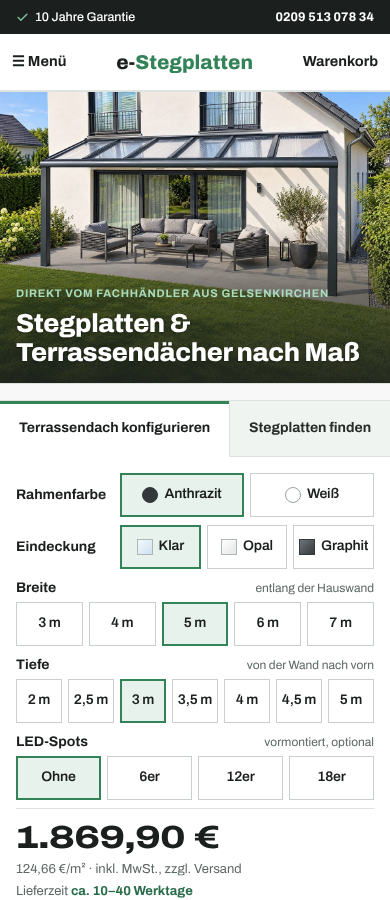
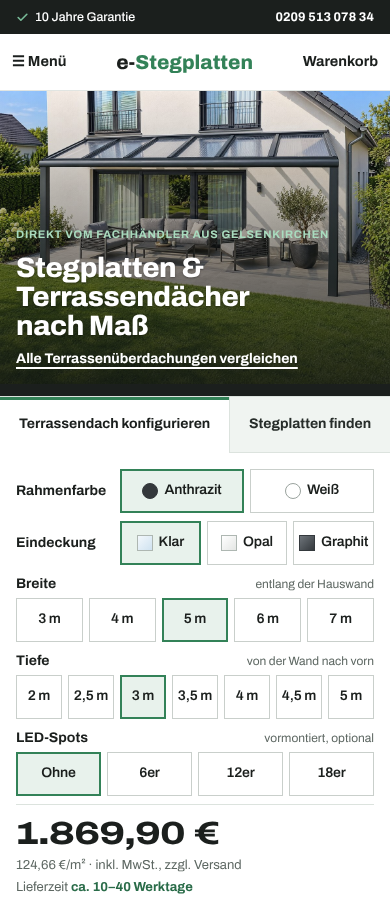
Hero nach Vorlage: vollflächiges Foto, Konfigurator-Karte rechts, Maßlinien
- Foto hinter dem gesamten Hero mit Verlauf, Text links mit Link und Belegen
- Konfigurator als weiße Karte (420 px), kompakte Pills auf Desktop
- Maßlinien Tiefe/Breite folgen der Auswahl im Konfigurator
- Tablet/Handy: Bild oben mit Textoverlay, Karte darunter
- Einstellungen hero_link_text/hero_link_url, Tab-Untertitel gekürzt
- shoot_home.js auf die neue Struktur umgestellt (13/13)

Claude-Session: https://claude.ai/code/session_01S9hv2zjJRNrto6p7dDYLeC

diff --git a/e-stegplatten-theme/tools/shoot_home.js b/e-stegplatten-theme/tools/shoot_home.js
@@ -1,9 +1,9 @@
-// Startseite v3: Hero beginnt mit dem Bild, Überschriften möglichst einzeilig. Screenshots + Messungen.
+// Startseite v3: vollflächiger Hero (Foto, Text links, Konfigurator-Karte rechts, Maßlinien), Überschriften möglichst einzeilig. Screenshots + Messungen.
 const { chromium } = require('playwright');
 const D = '/tmp/claude-0/-home-user-test/beef7815-2c55-57f0-9ec2-48630e491a1b/scratchpad/design-review/v3/';
 let pass = 0, fail = 0;
 const eq = (n, g, w) => { const ok = JSON.stringify(g) === JSON.stringify(w); ok ? pass++ : fail++; console.log(`${ok ? '✓' : '✗'} ${n}${ok ? '' : `\n    erwartet ${JSON.stringify(w)}\n    erhalten ${JSON.stringify(g)}`}`); };
-const SEL = { 'Kachel-Titel': '.esl .cat h3', 'Kachel-Link': '.esl .cat .l', 'Trust-Titel': '.esl .trust b', 'Finder-Option': '.esl .fin__opt b, .esl .fin__opt strong', 'H2': '.esl h2', 'Tab': '.esl .ehx__tab span', 'Beleg': '.esl .proof b', 'Kicker': '.esl .hv__tx .k' };
+const SEL = { 'Kachel-Titel': '.esl .cat h3', 'Kachel-Link': '.esl .cat .l', 'Trust-Titel': '.esl .trust b', 'Finder-Option': '.esl .fin__opt b, .esl .fin__opt strong', 'H2': '.esl h2', 'Tab': '.esl .ehx__tab span', 'Beleg': '.esl .proof b', 'Kicker': '.esl .ht .k', 'Hero-Link': '.esl .ht__link' };
 const wraps = (pg) => pg.evaluate((SEL) => {
   const out = {};
   for (const [name, sel] of Object.entries(SEL)) {
@@ -27,17 +27,20 @@ const wraps = (pg) => pg.evaluate((SEL) => {
   await pg.goto('file://' + D + 'home.html'); await pg.evaluate(() => document.fonts.ready); await pg.waitForTimeout(200);
   const geo = await pg.evaluate(() => {
     const r = s => { const e = document.querySelector(s); const b = e.getBoundingClientRect(); return { x: Math.round(b.x), y: Math.round(b.y), w: Math.round(b.width), h: Math.round(b.height) } };
-    const img = document.querySelector('.hv__img');
-    return { hv: r('.hv'), hc: r('.hc'), proof: r('.proof'), h1: r('.hv h1'), imgLoaded: !!(img && img.naturalWidth), h1Color: getComputedStyle(document.querySelector('.hv h1')).color, firstInHero: document.querySelector('.hero .c').firstElementChild.className };
+    const img = document.querySelector('.hb__img');
+    return { hero: r('.esl .hero'), hb: r('.hb'), ht: r('.ht'), hc: r('.hc'), proof: r('.proof'), imgLoaded: !!(img && img.naturalWidth), h1Color: getComputedStyle(document.querySelector('.ht h1')).color, cardBg: getComputedStyle(document.querySelector('.hcard')).backgroundColor, dimW: document.querySelector('[data-ehb-w]').textContent, dimD: document.querySelector('[data-ehb-d]').textContent, dims: getComputedStyle(document.querySelector('.hdim')).display };
   });
-  eq('Desktop: erstes Element im Hero ist der Bildblock', geo.firstInHero, 'hv');
+  eq('Desktop: Foto füllt den gesamten Hero', geo.hb.w === geo.hero.w && Math.abs(geo.hb.h - geo.hero.h) <= 2, true);
   eq('Desktop: Bild geladen', geo.imgLoaded, true);
-  eq('Desktop: Konfigurator rechts neben dem Bild', geo.hc.x > geo.hv.x + geo.hv.w - 1, true);
-  eq('Desktop: Bild oben links, Belege darunter', geo.proof.y >= geo.hv.y + geo.hv.h - 1, true);
-  eq('Desktop: Bildhöhe ≥ 420 px', geo.hv.h >= 420, true);
-  eq('Desktop: Überschrift liegt im Bild', geo.h1.y > geo.hv.y && geo.h1.y + geo.h1.h <= geo.hv.y + geo.hv.h, true);
-  eq('Desktop: Überschrift weiß', geo.h1Color, 'rgb(255, 255, 255)');
+  eq('Desktop: Text links, Karte rechts', geo.ht.x + geo.ht.w <= geo.hc.x, true);
+  eq('Desktop: Belege unter dem Text, links der Karte', geo.proof.y >= geo.ht.y + geo.ht.h - 1 && geo.proof.x + geo.proof.w <= geo.hc.x, true);
+  eq('Desktop: Hero ≥ 600 px hoch', geo.hero.h >= 600, true);
+  eq('Desktop: Überschrift weiß, Karte weiß', [geo.h1Color, geo.cardBg], ['rgb(255, 255, 255)', 'rgb(255, 255, 255)']);
+  eq('Desktop: Maßlinien sichtbar, zeigen die Vorauswahl', [geo.dims !== 'none', geo.dimW, geo.dimD], [true, 'Breite 5,00 m', 'Tiefe 3,00 m']);
   await pg.screenshot({ path: D + 'home-1280-fold.png' });
+  await pg.click('[data-w="4,00 Meter"]'); await pg.waitForTimeout(120);
+  eq('Desktop: Maßlinie folgt der Auswahl (4 m)', await pg.textContent('[data-ehb-w]'), 'Breite 4,00 m');
+  await pg.click('[data-w="5,00 Meter"]');
   await pg.click('#ehx-t2-x'); await pg.waitForTimeout(150);
   eq('Desktop: Tabwechsel funktioniert', await pg.isVisible('.fin'), true);
   await pg.screenshot({ path: D + 'home-1280-finder.png' });
@@ -51,12 +54,13 @@ const wraps = (pg) => pg.evaluate((SEL) => {
     const merged = { ...konfig }; for (const k of Object.keys(finder)) merged[k] = finder[k];
     const hs = await pg.evaluate(() => document.documentElement.scrollWidth <= innerWidth);
     console.log(`— ${w}px — ${hs ? '' : 'HORIZONTALES SCROLLEN! '}${Object.keys(merged).length ? JSON.stringify(merged) : 'alle Überschriften einzeilig'}`);
+    if (w === 820) { await pg.evaluate(() => window.scrollTo(0, 0)); await pg.screenshot({ path: D + 'home-820-fold.png' }); }
     if (w === 507) { await pg.evaluate(() => { const e = document.querySelector('.cats'); window.scrollTo(0, e.getBoundingClientRect().top + scrollY - 90) }); await pg.waitForTimeout(100); await pg.screenshot({ path: D + 'home-507-cats.png' }); }
     if (w === 390) {
-      const m = await pg.evaluate(() => { const hv = document.querySelector('.hv').getBoundingClientRect(), hc = document.querySelector('.hc').getBoundingClientRect(), pr = document.querySelector('.proof').getBoundingClientRect(); return { hvY: Math.round(hv.y), hvH: Math.round(hv.height), hvW: Math.round(hv.width), order: hv.y < hc.y && hc.y < pr.y, lead: !!document.querySelector('.hv .lead').offsetParent, kicker: !!document.querySelector('.hv .k').offsetParent } });
-      eq('Mobil: Reihenfolge Bild → Konfigurator → Belege', m.order, true);
-      eq('Mobil: Bild randlos (390 px breit)', m.hvW, 390);
-      eq('Mobil: Lead-Text ausgeblendet, Kicker sichtbar', [m.lead, m.kicker], [false, true]);
+      const m = await pg.evaluate(() => { const R = s => document.querySelector(s).getBoundingClientRect(); const hb = R('.hb'), ht = R('.ht'), hc = R('.hc'), pr = R('.proof'); return { hbW: Math.round(hb.width), overlay: ht.bottom <= hb.bottom + 1 && ht.top >= hb.top - 1, cardBelow: hc.top >= hb.bottom - 1, proofAfterCard: pr.top >= hc.bottom - 1, dims: getComputedStyle(document.querySelector('.hdim')).display, lead: !!document.querySelector('.ht .lead').offsetParent, kicker: !!document.querySelector('.ht .k').offsetParent, cardW: Math.round(R('.hcard').width) } });
+      eq('Mobil: Text auf dem Bild, Karte darunter, Belege danach', [m.overlay, m.cardBelow, m.proofAfterCard], [true, true, true]);
+      eq('Mobil: Bild und Karte randlos (390 px)', [m.hbW, m.cardW], [390, 390]);
+      eq('Mobil: Maßlinien aus, Lead aus, Kicker an', [m.dims, m.lead, m.kicker], ['none', false, true]);
       await pg.evaluate(() => window.scrollTo(0, 0)); await pg.waitForTimeout(100);
       await pg.screenshot({ path: D + 'home-390-fold.png' });
       await pg.screenshot({ path: D + 'home-390-full.png', fullPage: true });

diff --git a/e-stegplatten-theme/tools/v3_patch.py b/e-stegplatten-theme/tools/v3_patch.py
@@ -284,16 +284,16 @@ patch('sections/es-landing.liquid', [
 {%- if s.hero_text != blank -%}<p class="lead">{{ s.hero_text }}</p>{%- endif -%}
 {%- assign kh""",
      """<section class="hero" data-screen-label="Hero">
+<div class="hb" aria-hidden="true">{%- if s.hero_image != blank -%}<picture>{%- if s.hero_image_m -%}<source media="(max-width:749px)" srcset="{{ s.hero_image_m | image_url: width: 480 }} 480w, {{ s.hero_image_m | image_url: width: 720 }} 720w, {{ s.hero_image_m | image_url: width: 960 }} 960w, {{ s.hero_image_m | image_url: width: 1200 }} 1200w" sizes="100vw">{%- endif -%}<img class="hb__img" src="{{ s.hero_image | image_url: width: 1600 }}" srcset="{{ s.hero_image | image_url: width: 1000 }} 1000w, {{ s.hero_image | image_url: width: 1600 }} 1600w, {{ s.hero_image | image_url: width: 2200 }} 2200w" sizes="100vw" alt="" width="{{ s.hero_image.width | default: 1600 }}" height="{{ s.hero_image.height | default: 1063 }}" fetchpriority="high"></picture>{%- endif -%}<div class="hb__shade"></div></div>
 <div class="c">
-<div class="hv">
-{%- if s.hero_image != blank -%}<picture>{%- if s.hero_image_m -%}<source media="(max-width:749px)" srcset="{{ s.hero_image_m | image_url: width: 480 }} 480w, {{ s.hero_image_m | image_url: width: 720 }} 720w, {{ s.hero_image_m | image_url: width: 960 }} 960w, {{ s.hero_image_m | image_url: width: 1200 }} 1200w" sizes="100vw">{%- endif -%}<img class="hv__img" src="{{ s.hero_image | image_url: width: 1400 }}" srcset="{{ s.hero_image | image_url: width: 700 }} 700w, {{ s.hero_image | image_url: width: 1000 }} 1000w, {{ s.hero_image | image_url: width: 1400 }} 1400w" sizes="(max-width:999px) 100vw, 660px" alt="{{ s.hero_image.alt | default: s.hero_title | escape }}" width="{{ s.hero_image.width | default: 1400 }}" height="{{ s.hero_image.height | default: 1050 }}" fetchpriority="high"></picture>{%- endif -%}
-<div class="hv__tx">
+<div class="hdim" aria-hidden="true"><span class="hdim__d"><b data-ehb-d>Tiefe</b></span><span class="hdim__w"><b data-ehb-w>Breite</b></span></div>
+<div class="ht">
 {%- if s.kicker != blank -%}<p class="k">{{ s.kicker }}</p>{%- endif -%}
 <h1>{{ s.hero_title }}</h1>
 {%- if s.hero_text != blank -%}<p class="lead">{{ s.hero_text }}</p>{%- endif -%}
+{%- if s.hero_link_text != blank and s.hero_link_url != blank -%}<a class="ht__link" href="{{ s.hero_link_url }}">{{ s.hero_link_text }}</a>{%- endif -%}
 </div>
-</div>
-<div class="hc">
+<div class="hc"><div class="hcard">
 {%- assign kh"""),
     ("""{% render 'es-hero-konfig', kc: kc, lz: s.lz_terrassen, mu: s.muster_url %}
 {%- endif -%}
@@ -303,7 +303,7 @@ patch('sections/es-landing.liquid', [
 <div class="proof">""",
      """{% render 'es-hero-konfig', kc: kc, lz: s.lz_terrassen, mu: s.muster_url %}
 {%- endif -%}
-</div>
+</div></div>
 <div class="proof">"""),
     ("""
 </div>
@@ -315,7 +315,7 @@ patch('sections/es-landing.liquid', [
 </section>
 <section class="trust" data-screen-label="Vertrauen">"""),
     ('{"type":"image_picker","id":"hero_image","label":"Bild"},',
-     '{"type":"image_picker","id":"hero_image","label":"Bild"},{"type":"image_picker","id":"hero_image_m","label":"Bild für Handys (optional, 4:3 – Dach oben, ruhige Fläche unten)","info":"Ohne Auswahl wird das Bild oben auch auf Handys verwendet."},'),
+     '{"type":"image_picker","id":"hero_image","label":"Bild (vollflächig hinter Text und Konfigurator)"},{"type":"image_picker","id":"hero_image_m","label":"Bild für Handys (optional, 4:3 – Dach oben, ruhige Fläche unten)","info":"Ohne Auswahl wird das Bild oben auch auf Handys verwendet."},{"type":"text","id":"hero_link_text","label":"Link unter dem Text","default":"Alle Terrassenüberdachungen vergleichen"},{"type":"url","id":"hero_link_url","label":"Link-Ziel"},'),
     ("""<h3>{{ b.settings.title | escape | replace: 'Terrassenüberdachung', 'Terrassen&shy;überdachung' | replace: 'Stegplatten', 'Steg&shy;platten' }}</h3>""",
      """<h3>{{ b.settings.title | escape }}</h3>"""),
 ])
@@ -326,16 +326,42 @@ patch('snippets/es-landing-css.liquid', [
 .esl .hero .c{display:grid;grid-template-columns:minmax(0,1.05fr) minmax(0,.95fr);gap:48px;align-items:start;padding-top:32px;padding-bottom:48px}
 .esl .hero img{width:100%;aspect-ratio:4/3;object-fit:cover;display:block;border:1px solid var(--ln)}
 .esl .proof{display:grid;grid-template-columns:repeat(3,1fr);border:1px solid var(--ln);border-top:none;background:#fff}""",
-     """/* Hero: Bild zuerst (Überschrift auf dem Bild), daneben der Konfigurator; mobil Bild → Konfigurator → Belege */
-.esl .hero{border-bottom:1px solid var(--ln)}
-.esl .hero .c{display:grid;grid-template-columns:minmax(0,1.05fr) minmax(0,.95fr);grid-template-rows:minmax(0,1fr) auto;grid-template-areas:"hv hc" "proof hc";gap:0 48px;align-items:start;padding-top:24px;padding-bottom:48px}
-.esl .hv{grid-area:hv;position:relative;align-self:stretch;min-height:440px;display:flex;flex-direction:column;justify-content:flex-end;background:var(--ink);border:1px solid var(--ln);overflow:hidden}
-.esl .hv__img{position:absolute;inset:0;width:100%;height:100%;object-fit:cover;display:block}
-.esl .hv__tx{position:relative;padding:140px 28px 28px;background:linear-gradient(180deg,rgba(27,31,29,0) 0%,rgba(27,31,29,.55) 40%,rgba(27,31,29,.9) 100%)}
-.esl .hv__tx .k{color:#A9DBBE;margin-bottom:8px}
-.esl .hv__tx h1{color:#fff;text-shadow:0 1px 2px rgba(0,0,0,.35)}
-.esl .hv__tx .lead{color:rgba(255,255,255,.92);margin-top:10px;text-shadow:0 1px 2px rgba(0,0,0,.35)}
-.esl .hc{grid-area:hc;min-width:0}
+     """/* Hero: vollflächiges Foto, Text links, Konfigurator als weiße Karte rechts, Maßlinien für Breite/Tiefe */
+.esl .hero{position:relative;background:var(--ink);color:#fff;border-bottom:1px solid var(--ln);overflow:hidden}
+.esl .hb{position:absolute;inset:0}
+.esl .hb__img{width:100%;height:100%;object-fit:cover;object-position:50% 42%;display:block}
+.esl .hb__shade{position:absolute;inset:0;background:linear-gradient(90deg,rgba(18,22,20,.84) 0%,rgba(18,22,20,.62) 40%,rgba(18,22,20,.32) 68%,rgba(18,22,20,.18) 100%)}
+.esl .hero .c{position:relative;display:grid;grid-template-columns:minmax(0,1fr) 420px;grid-template-rows:auto auto;grid-template-areas:"ht hc" "proof hc";gap:26px 56px;align-items:center;min-height:600px;padding-top:40px;padding-bottom:64px}
+.esl .ht{grid-area:ht;align-self:end;padding-left:64px;max-width:640px}
+.esl .ht .k{color:#A9DBBE;margin-bottom:10px}
+.esl .ht h1{color:#fff;font-size:clamp(34px,4.2vw,56px);line-height:1.04;text-shadow:0 1px 2px rgba(0,0,0,.3)}
+.esl .ht .lead{color:rgba(255,255,255,.9);font-size:17px;max-width:48ch;text-shadow:0 1px 2px rgba(0,0,0,.3)}
+.esl .ht__link{display:inline-block;margin-top:18px;color:#fff;font-weight:700;font-size:15px;text-decoration:underline;text-underline-offset:4px;text-decoration-thickness:2px}
+.esl .ht__link:hover{color:#A9DBBE}
+.esl .hc{grid-area:hc;min-width:0;align-self:center}
+.esl .hcard{background:#fff;color:var(--ink);box-shadow:0 24px 60px rgba(0,0,0,.35)}
+.esl .hcard .ehx{margin:0}
+/* Karte kompakt (nur Desktop): kleinere Pills und Abstände, damit Hero und Karte in den sichtbaren Bereich passen */
+@media(min-width:1001px){
+.esl .hcard .ehx__tab{min-height:52px;padding:6px 14px}
+.esl .hcard .ehx__tab small{white-space:nowrap}
+.esl .hcard .ehk{padding:16px 20px 20px}
+.esl .hcard .ehk__o{margin-bottom:10px}
+.esl .hcard .ehk__l{font-size:14px;margin-bottom:6px}
+.esl .hcard .ehk__pill{min-height:40px;font-size:14px;padding:0 6px}
+.esl .hcard .ehk__ft{padding-top:14px;margin-top:2px}
+.esl .hcard .ehk__price{font-size:32px}
+.esl .hcard .ehk__go{height:50px;font-size:16px;padding:0 20px}
+}
+.esl .hdim{position:absolute;inset:0;pointer-events:none}
+.esl .hdim__d{position:absolute;left:18px;top:15%;bottom:26%;width:0;border-left:1px solid rgba(255,255,255,.75)}
+.esl .hdim__w{position:absolute;left:64px;right:520px;bottom:30px;height:0;border-top:1px solid rgba(255,255,255,.75)}
+.esl .hdim__d::before,.esl .hdim__d::after{content:"";position:absolute;left:-6px;width:12px;height:0;border-top:1px solid rgba(255,255,255,.75)}
+.esl .hdim__d::before{top:0}.esl .hdim__d::after{bottom:0}
+.esl .hdim__w::before,.esl .hdim__w::after{content:"";position:absolute;top:-6px;height:12px;width:0;border-left:1px solid rgba(255,255,255,.75)}
+.esl .hdim__w::before{left:0}.esl .hdim__w::after{right:0}
+.esl .hdim b{position:absolute;top:50%;left:50%;transform:translate(-50%,-50%);background:var(--g);color:#fff;font-size:13px;font-weight:700;line-height:1.2;padding:5px 10px;white-space:nowrap}
+.esl .hdim__d b{transform:translate(-50%,-50%) rotate(-90deg)}
 .esl .proof{grid-area:proof;display:grid;grid-template-columns:repeat(3,1fr);border:1px solid var(--ln);border-top:none;background:#fff}"""),
     (".esl .ehx{margin-top:24px}", ".esl .ehx{margin-top:0}"),
     (".esl .cat{display:flex;flex-direction:column;min-width:0;border:1px solid var(--ln);",
@@ -346,21 +372,29 @@ patch('snippets/es-landing-css.liquid', [
      ".esl .cat .l{margin-top:auto;padding-top:8px;font-weight:700;color:var(--g6);display:inline-flex;gap:6px;align-items:center;font-size:clamp(13px,5.6cqi,15px);white-space:nowrap}"),
     (""".esl .hero .c{grid-template-columns:1fr;gap:24px}
 .esl .cats,.esl .steps,.esl .prods{grid-template-columns:repeat(2,minmax(0,1fr))}""",
-     """.esl .hero .c{grid-template-columns:1fr;grid-template-rows:auto;grid-template-areas:"hv" "hc" "proof";gap:20px 0}
-.esl .hv{min-height:0;aspect-ratio:3/2;align-self:auto}
-.esl .hv__tx{padding:80px 20px 20px}
+     """.esl .hero{display:grid;grid-template-columns:100%;grid-template-rows:auto auto auto}
+.esl .hb{grid-area:1/1;position:relative;inset:auto;aspect-ratio:16/9}
+.esl .hb__shade{background:linear-gradient(180deg,rgba(18,22,20,0) 0%,rgba(18,22,20,.3) 40%,rgba(18,22,20,.86) 100%)}
+.esl .hero .c{display:contents}
+.esl .ht{grid-area:1/1;align-self:end;z-index:1;padding:0 24px 24px;max-width:none}
+.esl .ht h1{font-size:clamp(28px,5vw,40px)}
+.esl .hc{grid-area:2/1;padding:24px 24px 0}
+.esl .hcard{box-shadow:none}
+.esl .proof{grid-area:3/1;padding:16px 24px 24px}
+.esl .hdim{display:none}
 .esl .cats,.esl .steps,.esl .prods{grid-template-columns:repeat(2,minmax(0,1fr))}"""),
     (""".esl .hero .c{padding-top:12px;padding-bottom:24px;gap:20px}
 .esl .hero .k,.esl .lead{display:none}
 .esl .hero .c>div:last-child{margin:0 -16px}
 .esl .hero img{aspect-ratio:16/10;border-left:0;border-right:0}
 .esl .proof{border-left:0;border-right:0}""",
-     """.esl .hero .c{padding-top:0;padding-bottom:24px;gap:16px 0}
-.esl .hv{margin:0 -16px;border-left:0;border-right:0;aspect-ratio:4/3}
-.esl .hv__tx{padding:56px 16px 16px}
-.esl .hv__tx .lead{display:none}
+     """.esl .hb{aspect-ratio:4/3}
+.esl .ht{padding:0 16px 14px}
+.esl .ht .lead{display:none}
+.esl .ht__link{margin-top:8px;font-size:14px}
+.esl .hc{padding:12px 0 0}
 .esl .proof{border-left:0;border-right:0;margin:0 -16px}"""),
-    (".esl .ehx{margin:12px -16px 0}", ".esl .ehx{margin:0 -16px}"),
+    (".esl .ehx{margin:12px -16px 0}", ".esl .ehx{margin:0}"),
     (""".esl .cat h3{font-size:15px;min-height:2.5em}
 .esl .cat .l{font-size:14px;gap:4px;white-space:normal;line-height:1.3}""",
      """.esl .cat .l{gap:4px}"""),
@@ -380,17 +414,16 @@ patch('snippets/es-landing-css.liquid', [
 .esl .proof div{padding:14px 16px;border-right:1px solid var(--ln);font-size:14px;line-height:1.4;color:var(--mu)}
 .esl .proof div:last-child{border-right:none}
 .esl .proof b{display:block;color:var(--ink);font-size:15px;margin-bottom:2px}""",
-     """.esl .proof{grid-area:proof;display:grid;grid-template-columns:1fr;border:1px solid var(--ln);border-top:none;background:#fff}
-.esl .proof div{display:flex;flex-wrap:wrap;align-items:baseline;gap:0 8px;padding:9px 16px;border-bottom:1px solid var(--ln);font-size:14px;line-height:1.4;color:var(--mu)}
-.esl .proof div:last-child{border-bottom:none}
-.esl .proof svg{color:var(--g);flex:none;width:16px;height:16px;align-self:center;margin-right:2px}
-.esl .proof b{display:inline;white-space:nowrap;color:var(--ink);font-size:15px}"""),
+     """.esl .proof{grid-area:proof;align-self:start;display:flex;flex-wrap:wrap;gap:8px 24px;padding-left:64px;border:0;background:none}
+.esl .proof div{display:flex;flex-wrap:wrap;align-items:baseline;gap:0 6px;padding:0;border:0;font-size:14px;line-height:1.4;color:rgba(255,255,255,.82)}
+.esl .proof svg{color:#A9DBBE;flex:none;width:16px;height:16px;align-self:center}
+.esl .proof b{display:inline;white-space:nowrap;color:#fff;font-size:14px;font-weight:700}"""),
     (""".esl .proof{border-left:0;border-right:0;margin:0 -16px}
 .esl .proof div{padding:10px 8px;font-size:12px;line-height:1.35}
 .esl .proof b{font-size:13px;line-height:1.25}""",
-     """.esl .proof{border-left:0;border-right:0;margin:0 -16px}
-.esl .proof div{padding:8px 16px;font-size:13px;line-height:1.35}
-.esl .proof b{font-size:14px}"""),
+     """.esl .proof{margin:0;padding:12px 16px 18px;gap:6px 14px}
+.esl .proof div span{display:none}
+.esl .proof b{font-size:13px}"""),
     # Tabs: Breite nach Beschriftung verteilen, damit „Terrassendach konfigurieren" auch bei 1000–1100 px und auf Handys einzeilig bleibt
     (""".esl .ehx__tabs{display:grid;grid-template-columns:1fr 1fr;border:1px solid var(--ln);border-bottom:0;background:var(--bg2)}
 .esl .ehx__tab{display:flex;flex-direction:column;""",
@@ -403,7 +436,7 @@ patch('snippets/es-landing-css.liquid', [
     # Trust-Leiste auf Handys einspaltig (Titel nowrap, Zusatz daneben oder darunter); H2 und Kacheln bei sehr schmalen Geräten
     ("@media(max-width:380px){.esl h1{font-size:24px}}",
      """@media(max-width:480px){
-.esl .hv__tx .k{font-size:11px;letter-spacing:.07em}
+.esl .ht .k{font-size:11px;letter-spacing:.07em}
 .esl .trust .c{grid-template-columns:1fr}
 .esl .trust .c>div{padding:10px 16px}
 .esl .trust span{display:flex;flex-wrap:wrap;align-items:baseline;gap:0 8px}
@@ -476,6 +509,13 @@ html body .text-with-icons__dots:not(#_),html body .text-with-icons .flickity-pa
 </style>"""),
 ])
 
+
+# ---------------------------------------------------------------- Hero-Konfigurator: Maßlinien (Breite/Tiefe) im Hero mitführen
+patch('snippets/es-hero-konfig.liquid', [
+    ("kl.textContent='\u00a0'+lb(st.w)+' × '+lb(st.d);",
+     "kl.textContent='\u00a0'+lb(st.w)+' × '+lb(st.d);document.querySelectorAll('[data-ehb-w]').forEach(function(e){e.textContent='Breite '+String(st.w).replace(' Meter',' m')});document.querySelectorAll('[data-ehb-d]').forEach(function(e){e.textContent='Tiefe '+String(st.d).replace(' Meter',' m')});"),
+])
+
 # ---------------------------------------------------------------- index.json: Trust-Text, Farbmuster
 p = B / 'new/templates/index.json'
 raw = p.read_text(encoding='utf-8')
@@ -487,6 +527,9 @@ L['settings']['muster_url'] = '/products/farbmuster'
 # Hero-Bilder (Higgsfield-Generate, Quelle content/hero/*.jpg) – Dateien müssen vor dem Theme-Upload in Shopify > Inhalte > Dateien liegen
 L['settings']['hero_image'] = 'shopify://shop_images/hero-terrassendach-stegplatten.jpg'
 L['settings']['hero_image_m'] = 'shopify://shop_images/hero-terrassendach-stegplatten-mobil.jpg'
+L['settings']['hero_link_text'] = 'Alle Terrassenüberdachungen vergleichen'
+L['settings']['tab2_sub'] = 'Stärke in 2 Fragen'
+L['settings']['hero_link_url'] = '/collections/terrassenuberdachung'
 L['blocks']['c1']['settings'].update({'title': 'Stegplatten', 'text': 'Doppelstegplatten 4,5–16 mm, Polycarbonat oder Acrylglas – millimetergenau zugeschnitten.'})
 L['blocks']['c2']['settings']['title'] = 'Terrassendächer'
 L['blocks']['c4']['settings']['cta'] = 'Nach Stärke'

diff --git a/e-stegplatten-theme/HANDOFF.md b/e-stegplatten-theme/HANDOFF.md
@@ -22,7 +22,7 @@ Stand: 23.10.2026. Dieser Ordner sichert die Arbeitsdateien. Maßgeblich ist der
 
 ## Lokal fertig, noch NICHT hochgeladen: `theme/v3` (9 Dateien)
 
-Shopify-Verbindung war weg (Shop-Wechsel beim Lesen der TerrassenPost-Preise hat den Zugang zurückgesetzt; Connector muss neu verbunden werden). Tests grün: `tools/pdp_test.js` 61/61, `tools/guard_test.js` 12/12, `tools/led_test.js` 26/26, `tools/shoot_home.js` 12/12 (Startseite: Hero beginnt mit dem Bild; alle Überschriften von 320 bis 1280 px einzeilig), `tools/shoot_cards.js` 35/35 (Produktkarten + Icon-Leiste im Mock `tools/render_cards.py`). Screenshots: `screenshots/pdp-390-*.png`, `pdp-1280-montage-offer.png`, `hero-390.png`, `screenshots/v3/home-*.png`.
+Shopify-Verbindung war weg (Shop-Wechsel beim Lesen der TerrassenPost-Preise hat den Zugang zurückgesetzt; Connector muss neu verbunden werden). Tests grün: `tools/pdp_test.js` 61/61, `tools/guard_test.js` 12/12, `tools/led_test.js` 26/26, `tools/shoot_home.js` 13/13 (Startseite: vollflächiger Hero mit Karte und Maßlinien, Handy-Umbau; alle Überschriften von 320 bis 1280 px einzeilig), `tools/shoot_cards.js` 35/35 (Produktkarten + Icon-Leiste im Mock `tools/render_cards.py`). Screenshots: `screenshots/pdp-390-*.png`, `pdp-1280-montage-offer.png`, `hero-390.png`, `screenshots/v3/home-*.png`.
 
 | Datei | Änderung |
 |---|---|
@@ -30,9 +30,9 @@ Shopify-Verbindung war weg (Shop-Wechsel beim Lesen der TerrassenPost-Preise hat
 | `snippets/es-pdp-js.liquid` | Montage-Logik nach dem Modell aus der Preisliste: Zone über die ersten zwei PLZ-Ziffern (erster Treffer gilt, AT = 4-stellige PLZ), Preis = Variante Breite × Tiefe × Zone des Montage-Produkts; Warenkorbzeile mit „Für Überdachung“ + „Montageort“, Sperre ohne gültige PLZ, Panels, `?mp=PLZ`, `?angebot=1`, `contact_posted` öffnet das Formular. |
 | `snippets/es-pdp-css.liquid` | Styles für Montage, Panels, Formular, Druckansicht. |
 | `snippets/es-led-guard.liquid` | Wächter jetzt für LED **und** Montage (Handles in `ADD` + Liquid-Liste pflegen). |
-| `snippets/es-hero-konfig.liquid` | Zeile „Farbmuster bestellen · Angebot anfordern“ (Link übergibt Variante/LED + `angebot=1`). Neuer Parameter `mu`. |
-| `sections/es-landing.liquid` | **Hero beginnt mit dem Bild** (Kicker + H1 + Lead liegen auf dem Bild, Konfigurator rechts daneben, Belege darunter; mobil Bild → Konfigurator → Belege; `<picture>` mit eigener Handy-Quelle über die neue Einstellung `hero_image_m`, `fetchpriority=high`). Beleg 3 = Judge.me-Gesamtwertung („4,9 ★ aus 212 Bewertungen“ aus `shop.metafields.judgeme.all_reviews_*`, Fallback Text); Belege als Zeilen mit Haken. Kategorie-Titel ohne weiche Trennstriche. Einstellung `muster_url`. |
-| `snippets/es-landing-css.liquid` | Hero-Raster (Bild/Konfigurator/Belege), Bildüberlagerung; **Überschriften möglichst einzeilig:** Kachel-Titel/-Links skalieren mit der Kachelbreite (`cqi`), keine Silbentrennung; Belege als Zeilen (Titel `nowrap`, Zusatz rückt darunter); Hero-Tabs verteilen die Breite nach Beschriftung; Trust-Leiste ≤ 480 px einspaltig; H2 ≤ 380 px 22 px; Kacheln ≤ 359 px als Liste (Bild links). |
+| `snippets/es-hero-konfig.liquid` | Zeile „Farbmuster bestellen · Angebot anfordern“ (Link übergibt Variante/LED + `angebot=1`). Neuer Parameter `mu`. Schreibt die gewählte Breite/Tiefe in die Maßlinien des Heros (`[data-ehb-w]`, `[data-ehb-d]`). |
+| `sections/es-landing.liquid` | **Hero nach Vorlage des Betreibers:** Foto vollflächig hinter dem gesamten Hero (`<picture>` mit Handy-Quelle `hero_image_m`, `fetchpriority=high`), links Kicker + H1 + Text + Link „Alle Terrassenüberdachungen vergleichen“ (Einstellungen `hero_link_text`/`hero_link_url`) + Belege als weiße Zeile, rechts der Konfigurator als weiße Karte (Tabs Terrassendach/Stegplatten), Maßlinien „Tiefe …“ (links, gedreht) und „Breite …“ (unten) folgen der Auswahl. Tablet/Handy: Bild oben mit Textoverlay, Karte darunter, Belege danach, keine Maßlinien. Beleg 3 = Judge.me-Gesamtwertung („4,9 ★ aus 212 Bewertungen“ aus `shop.metafields.judgeme.all_reviews_*`, Fallback Text); Belege als Zeilen mit Haken. Kategorie-Titel ohne weiche Trennstriche. Einstellung `muster_url`. |
+| `snippets/es-landing-css.liquid` | Hero: vollflächiges Foto mit Verlauf von links, Textspalte + Karte (420 px) im Raster, kompakte Karten-Pills ab 1001 px, Maßlinien, Tablet/Handy-Umbau über `display:contents`; **Überschriften möglichst einzeilig:** Kachel-Titel/-Links skalieren mit der Kachelbreite (`cqi`), keine Silbentrennung; Belege als Zeilen (Titel `nowrap`, Zusatz rückt darunter); Hero-Tabs verteilen die Breite nach Beschriftung; Trust-Leiste ≤ 480 px einspaltig; H2 ≤ 380 px 22 px; Kacheln ≤ 359 px als Liste (Bild links). |
 | `snippets/es-overrides.liquid` | **Produktkarten (Warehouse `product-item`):** Bildbox immer 4:3, Titel feste 3 Zeilen, Preis einzeilig 20 px (mobil 18 px) mit Streichpreis darunter in festem Block, Bewertungssterne direkt darunter – Preis und Sterne liegen in allen Karten auf gleicher Höhe, nichts wird abgeschnitten. **Icon-Leiste (`text-with-icons`):** ab 1000 px alle Elemente in einer Reihe, darunter 2 pro Reihe, auf Handys 2 Spalten statt Karussell (alte, wirkungslose `__list`-Regeln entfernt). |
 | `templates/index.json` | Hero-Bilder `hero_image` = `shopify://shop_images/hero-terrassendach-stegplatten.jpg`, `hero_image_m` = `…-mobil.jpg` (siehe unten); Trust-Leiste: „Zuschnitt millimetergenau – rechtwinklig, Kanten entgratet, Kammern staubfrei“; Kacheln „Stegplatten“ / „Terrassendächer“, CTA „Nach Stärke“; Farbmuster-Link im Finder; `muster_url`. |
 
